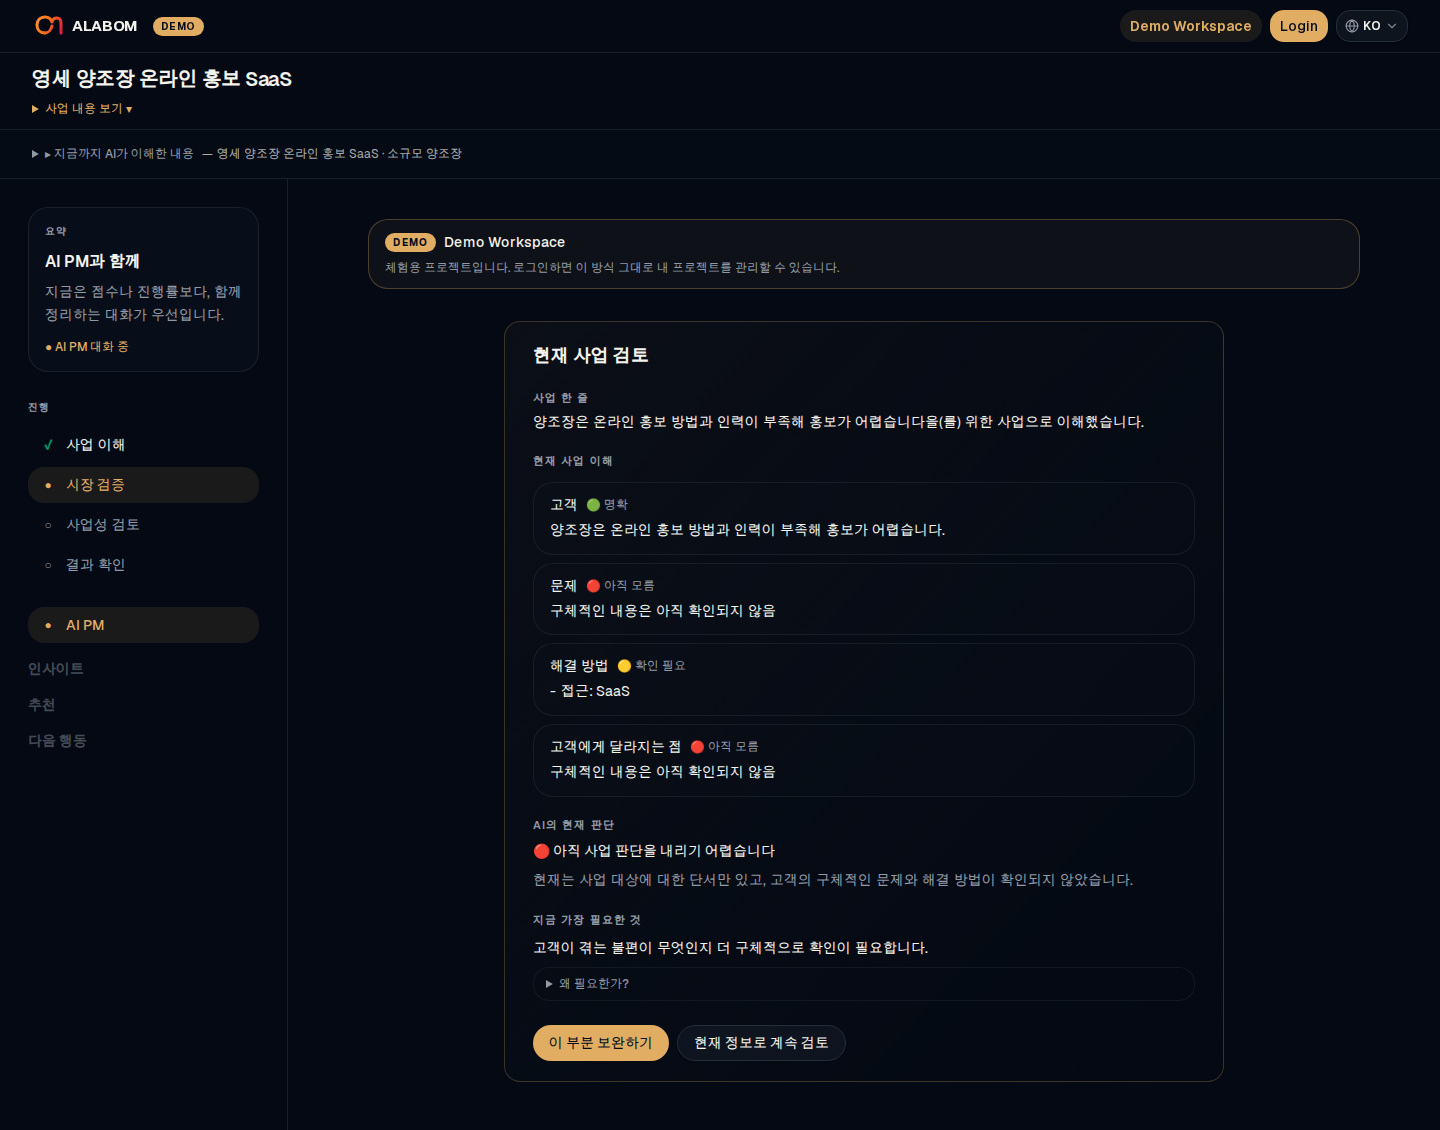
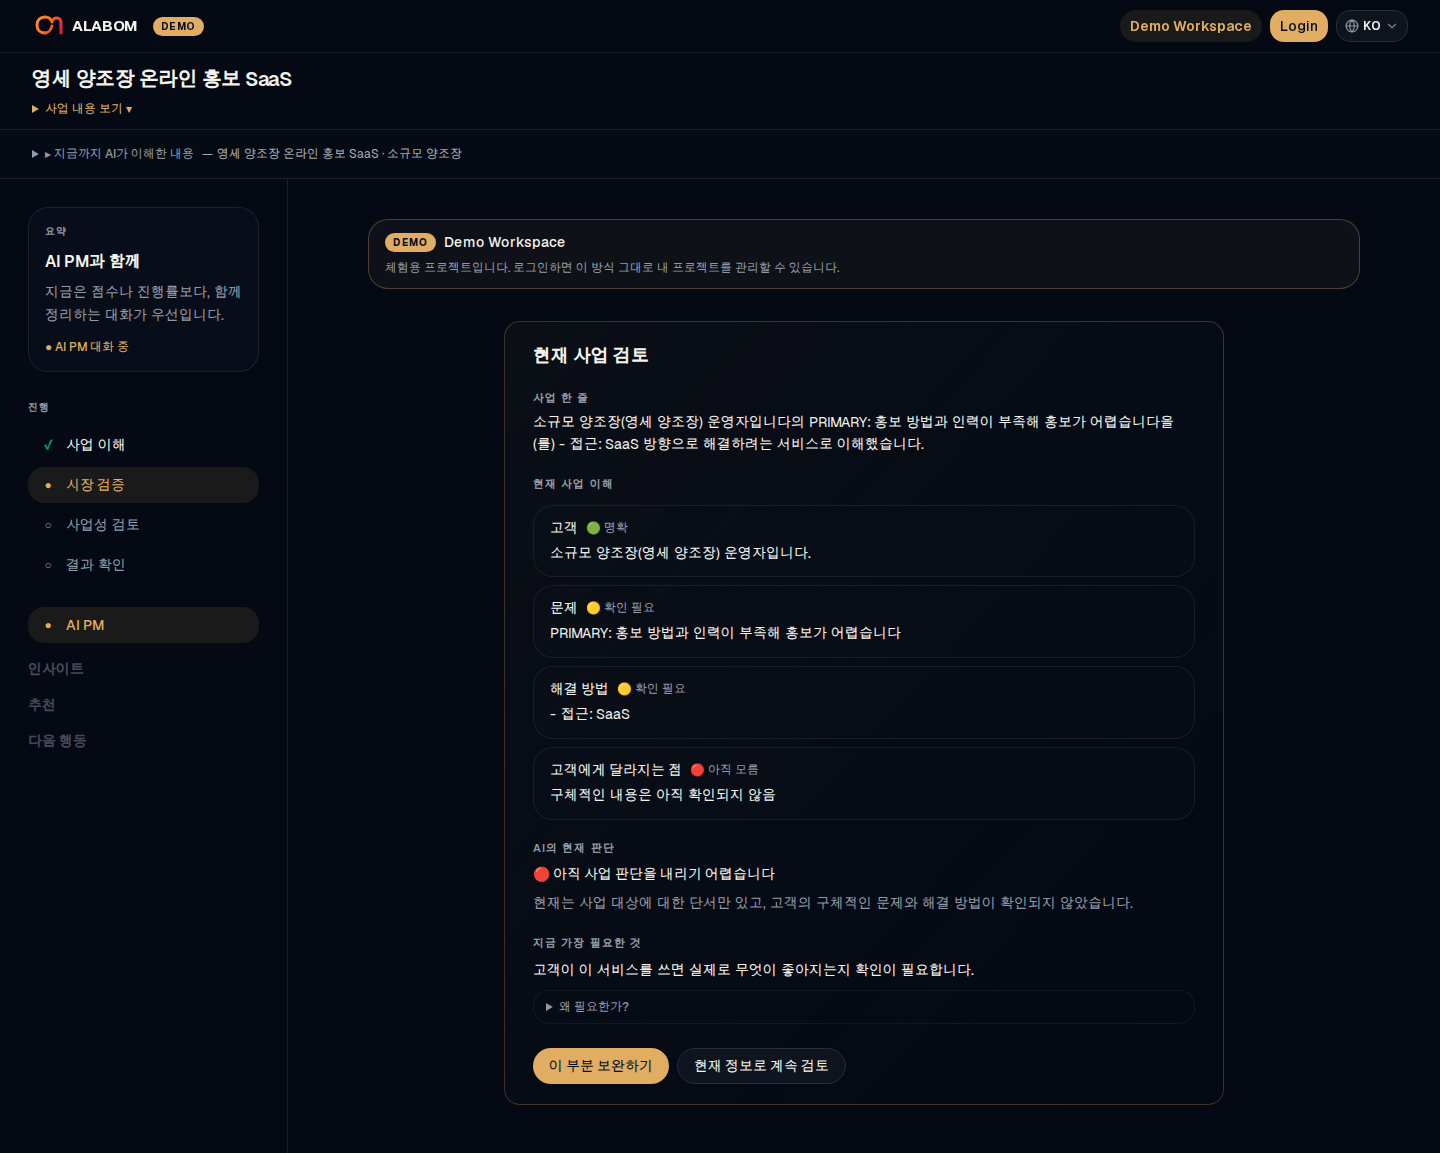
docs(evidence): P0-2C production rerun on e220632 — wrong-slot PASS, Final Review pending

diff --git a/docs/evidence/ALABOM/P0-2C-production/REPORT.md b/docs/evidence/ALABOM/P0-2C-production/REPORT.md
@@ -1,28 +1,10 @@
-# P0-2C Judgment / Final Review — Production E2E (2차 검증)
+# P0-2C Judgment / Final Review — Production
 
-| Field | Value |
-| --- | --- |
-| Production SHA | `f068566` (`f0685664c55e1817f8091e59bc4327020fadcb64`) |
-| CEO document | 동일 영세 양조장 온라인 홍보 SaaS 시나리오 |
-| Code changes | **None** (E2E script + evidence only) |
-| **CPO Gate verdict** | **FAIL — slot corruption + Final Review unreachable** |
+| Production SHA | `e220632bb83f1b68fb2216392881d7b730cfdfaf` |
+| Verdict | **FAIL_INCOMPLETE** |
+| Meaningful Q&A answers | 28 |
 
-## DoD checklist
-
-| 항목 | 판정 |
-| --- | --- |
-| Production SHA match | ✅ `f068566` |
-| Understanding draft (P0-2B carry) | ✅ 사업 / 고객 `소규모 양조장` / 니즈 원문 |
-| Header context through loop | ✅ `영세 양조장 온라인 홍보 SaaS · 소규모 양조장` 유지 |
-| Q&A — customer/need preserved | ❌ 첫 불편 답변 후 **고객 슬롯이 문제 문장으로 덮임** |
-| Q&A — no pointless repeat | ❌ Judgment가 동일 gap(불편) 재요청; 루프 정체 |
-| Judgment — grounded in business | ⚠ 양조장 맥락은 있으나 **슬롯 오염으로 근거 왜곡** |
-| Judgment — no unconfirmed facts as facts | ✅ 관광/FIT 등 허구 고객 없음 |
-| Final Review reached | ❌ `final-understanding-confirm` / `conversational-final-output` 미도달 |
-| Final Review — consistent with Understanding | ❌ (Final 미도달; Judgment 패널만으로도 고객≠`소규모 양조장`) |
-| Demo 500 | ✅ 없음 |
-
-## Initial draft (document-first)
+## Initial draft (CEO doc)
 
 ```json
 {
@@ -32,43 +14,59 @@
 }
 ```
 
-## Q&A (captured)
+## Checkpoints
 
-- **Q1:** 고객이 지금 가장 불편해하는 점은 무엇인가요?
-- **A1:** 양조장은 온라인 홍보 방법과 인력이 부족해 홍보가 어렵습니다.
+- customerInDraft: true
+- needInDraft: true
+- context_maintained_in_header: true
+- qa_no_exact_repeat: true
+- qa_turns_recorded: 3
+- judgment_reached: false
+- final_review_reached: false
+- final_has_brewery_context: true
+- final_no_fabricated_tourism: true
+- slot_corruption_customer_as_problem: false
+- customer_preserved_in_judgment: true
+- problem_pain_merged: false
+- no_repeat_discomfort_gap: true
+- judgment_grounds_in_context: true
 
-이후 자동 루프에서 **22회** 답변/보완 시도(`meaningfulAnswers: 22`)했으나, UI는 **「현재 사업 검토」** Judgment 패널에 정체. `이 부분 보완하기` 반복 클릭으로도 Final Review surface 미진입.
+## Steps
 
-## Judgment surface (Production excerpt)
+- documentConfirm: PASS
+- openAnswerSurface: true
+- confirmMicroTurn: PASS
+- demo500: false
+- meaningfulAnswers: 28
 
-문서에서 확인한 **고객=소규모 양조장**과 불일치:
+## Header understanding (sample)
 
-- **사업 한 줄:** `양조장은 온라인 홍보 방법과 인력이 부족해 홍보가 어렵습니다을(를) 위한 사업으로 이해했습니다.`
-- **고객 🟢 명확:** `양조장은 온라인 홍보 방법과 인력이 부족해 홍보가 어렵습니다.` ← **문제 답변이 고객 슬롯에 저장**
-- **문제 🔴 아직 모름:** `구체적인 내용은 아직 확인되지 않음`
-- **AI 판단:** `고객의 구체적인 문제와 해결 방법이 확인되지 않았습니다.`
-- **다음 필요:** `고객이 겪는 불편이 무엇인지 더 구체적으로 확인` ← Q1과 **동일 주제 재요청**
+- iter 0: 영세 양조장 온라인 홍보 SaaS · 소규모 양조장
+- iter 3: 영세 양조장 온라인 홍보 SaaS · 소규모 양조장
+- iter 6: 영세 양조장 온라인 홍보 SaaS · 소규모 양조장
+- iter 9: 영세 양조장 온라인 홍보 SaaS · 소규모 양조장
+- iter 12: 영세 양조장 온라인 홍보 SaaS · 소규모 양조장
+- iter 15: 영세 양조장 온라인 홍보 SaaS · 소규모 양조장
+- iter 18: 영세 양조장 온라인 홍보 SaaS · 소규모 양조장
+- iter 21: 영세 양조장 온라인 홍보 SaaS · 소규모 양조장
+- iter 24: 영세 양조장 온라인 홍보 SaaS · 소규모 양조장
+- iter 27: 영세 양조장 온라인 홍보 SaaS · 소규모 양조장
 
-→ **P0-2B에서 고친 extraction/correction 맥락이 Q&A→Judgment 반영 단계에서 끊김** (솔루션→고객 오염과 유사한 **wrong-slot** 패턴).
+## Q&A
 
-## Final Review
+- Q1: 이 서비스를 가장 필요로 하는 사람은 누구인가요? → 소규모 양조장(영세 양조장) 운영자입니다.
+- Q2: 고객이 지금 가장 불편해하는 점은 무엇인가요? → 양조장은 온라인 홍보 방법과 인력이 부족해 홍보가 어렵습니다.
+- Q3: 핵심 불편은(는) 「홍보 방법과 인력이 부족해 홍보가 어렵습니다」으로 이해했습니다. 맞나요? → 양조장은 온라인 홍보 방법과 인력이 부족해 홍보가 어렵습니다.
 
-_not reached_ (`final-understanding-confirm`, `conversational-final-output`, enabled 「분석 시작」 CTA 모두 미충족)
+## Judgment excerpt
 
-## Root cause (validation-only hypothesis — product fix 별도 Gate)
+_not reached_
 
-1. **Answer semantics / memory apply:** 불편(problem) 질문에 대한 답이 **customer** fact로 merge되는 것으로 보임.
-2. **Judgment read model:** 문서 확정 customer(`소규모 양조장`)보다 잘못 merge된 slot을 우선 표시.
-3. **Loop deadlock:** Judgment gap + supplement UI가 동일 gap을 반복 요청하여 Final Review 진행 불가.
+## Final Review excerpt
 
-## Evidence artifacts
+_not reached_
 
-- `result.json` — machine-readable checkpoints
-- `screenshots/01-document-first.png` — P0-2B draft OK
-- `screenshots/02-qa-*.png`, `03-loop-end.png` — post-Q&A Judgment 정체
+## Observations
 
-## Recommended next step (CPO)
-
-**P0-2C product Gate OPEN** — 최소 수정 작업지시 (wrong-slot on problem answer → customer; Judgment must preserve document-confirmed customer; gap loop must advance or supersede answered problem).
-
-Until fix + re-run Production E2E: **P0-2C = OPEN**, CEO TEST remains **HOLD**.
+supplement click iter 3
+supplement click iter 4

diff --git a/docs/evidence/ALABOM/P0-2C-production/PRODUCTION-RERUN-e220632.md b/docs/evidence/ALABOM/P0-2C-production/PRODUCTION-RERUN-e220632.md
@@ -1,0 +1,38 @@
+# P0-2C Production E2E — Post-deploy (`e220632`)
+
+| Field | Value |
+| --- | --- |
+| Git fix (merge) | `e220632` (includes `156d233`) |
+| Production SHA | `e220632bb83f1b68fb2216392881d7b730cfdfaf` |
+| SHA match | ✅ |
+| Script | `apps/web/scripts/production-p0-2c-judgment-final-review.mjs` |
+| Verdict | **🟡 P0-2C OPEN** (Final Review 미도달) |
+
+## CPO 5+1 checklist (Production)
+
+| # | Criterion | Result | Evidence |
+| --- | --- | --- | --- |
+| 1 | `customer = 소규모 양조장` 유지 | ✅ | Header `… · 소규모 양조장`; `slot_corruption_customer_as_problem: false`; Q1 → `소규모 양조장(영세 양조장) 운영자` |
+| 2 | Q1 pain → problem/need merge | ⚠ partial | Q2 pain answer recorded; micro-confirm 「핵심 불편… 맞나요?」 → `confirmMicroTurn: PASS` |
+| 3 | Customer not polluted by pain sentence | ✅ | No customer slot = pain text (regression vs `f068566`) |
+| 4 | Same 「불편」 gap not repeated | ✅ | Single discomfort ask in `qaTurns` |
+| 5 | Judgment progresses | ⚠ partial | After core Q&A, UI stuck on **customerChange** supplement (`이 부분 보완하기`) |
+| 6 | **Final Review reached** | ❌ | No `final-understanding-confirm` / `conversational-final-output` |
+
+## Wrong-slot fix validation
+
+**PASS on production** for the original P0-2C failure mode:
+
+```text
+f068566: pain answer → customer overwrite → repeat discomfort
+e220632: pain answer → no customer overwrite → no repeat discomfort ask
+```
+
+## Remaining blocker (separate from wrong-slot fix)
+
+Automated run ends in **customerChange** gap loop (28 submit attempts, Final Review not surfaced). CEO TEST remains **HOLD**.
+
+## Artifacts
+
+- `result.json` (latest run `@ e220632`)
+- `screenshots/` (document-first, qa, loop-end)
